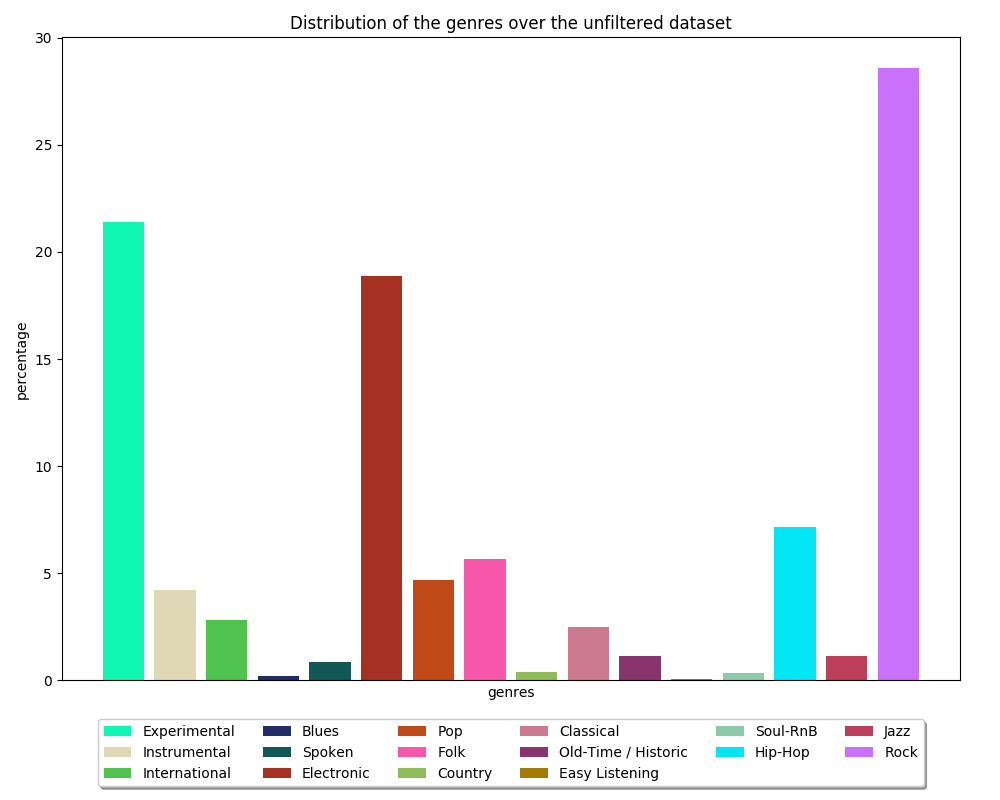
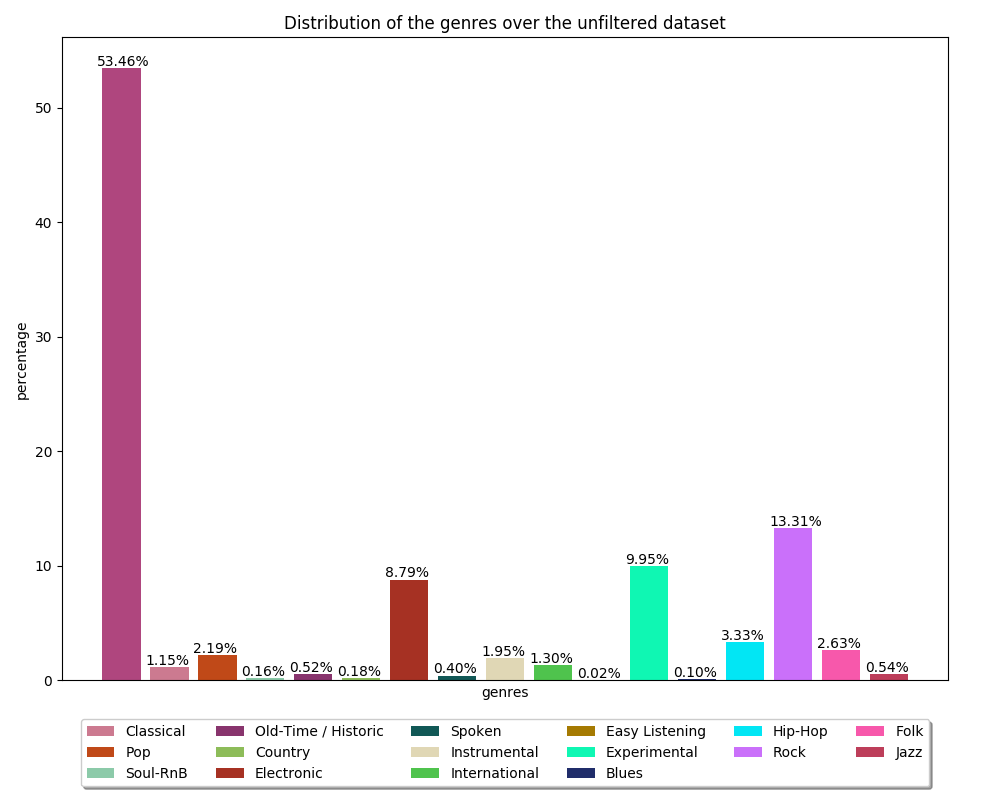
Work on report, counted hits per class

diff --git a/report/content/entropy.tex b/report/content/entropy.tex
@@ -1,41 +1,113 @@
-\chapter{Entropy Approach}
+\chapter{Entropy and Fractal Dimension Approach}
 \textit{by Florian Fallenbüchel}\\
 This chapter will explain our approach on the classification of the
 genre via the entropy and fractal dimension of the song. This approach
 is interesting, because it does not consider musical information such as
 harmony, melody, beat and tempo, heavily reducing the size of the data
-to be processed during training. We follow the work of Goulart
-\textit{et al.}~\cite{entropy} from 2012, who used the entropy approach
-together with combined support vector machines. They got 100\%
-classification accuracy on a set of 90 songs equally distributed over 3
-different genres, with 80-90\% of the data used for training. We try
-to extend this method to a larger amount of classes, combining it with
-neural networks for classification.\\
+to be processed during training. The entropy is a measure of the
+disorder of the signal, indicating the quantity of change of the signal
+energy between consecutive parts of the track. The fractal dimension is
+a measure of the complexity of the signal, as it indicates the ratio of
+the change of detail to the change in scale at which the detail is
+measured. This term is mostly used in fractal geometry, as fractals have
+infinite lengths between any two points, making them more complex than
+their topological dimension, but less complex than the next higher one.
+This interdimensionality is given by the fractal dimension.\\
+
+\section{Method}
+We follow the work of Goulart \textit{et al.}~\cite{entropy} from 2012,
+who used the entropy approach together with combined support vector
+machines. They achieved 100\% classification accuracy on a set of 90
+songs equally distributed over 3 different genres, with 80-90\% of the
+data used for training. We try to extend this method to a larger amount
+of classes, combining it with neural networks for classification.\\
 For the calculation of the entropy, we need the energy approach of
-signal theory, as presented in Elements of Information
-Theory~\cite{infotheo} by Cover and Thomas. The song is divided into
-frames of 1024 samples with 50\% overlap between consecutive frames.
-The entropy (E) then is defined as
+signal theory, as presented in Elements of Information Theory
+\cite{infotheo} by Cover and Thomas. The song is divided into frames of
+1024 samples with 50\% overlap between consecutive frames and the
+entropy $E$ then is defined as
 \begin{equation}
 	E = - \sum_{i=0}^{1023} p_{i} \log_{2}(p_{i}),
 \end{equation}
-with $p_{i}$ being the proportion of the
+with $p_{i}$ being the proportion of the sample energy to the
+energy of the whole frame
+\begin{equation}
+	p_i = \frac{y_i}{\sum_{j=0}^{1023} y_j}.
+\end{equation}
+\\
+\noindent From the now obtained set of entropies of the song we
+calculate five features, namely the average entropy, the standard
+deviation of the entropies, the maximum and minimum entropy and the
+absolute maximum difference of entropies between consecutive frames.
+Those are the first five entries of our input vector for the neural
+network.\\
+For the calculation of the fractal dimension they suggest a box counting
+algorithm. The basic principle of these algorithms is to calculate the
+number of boxes of different sizes necessary to cover the entire signal.
+After that, a linear least squares solution is computed on the logarithm
+of the number of boxes and the inverse logarithm of the respective box
+size ($\frac{1}{log(boxs)}$). The slope of the resulting curve then
+resembles the fractal dimension.\\
+For the implementation of the algorithm, we needed to improvise, because
+the box counting algorithm Goulart \textit{et al.} used in their work is
+described in the book ``Fractal Speech Processin''~\cite{fractal} by
+Al-Akaidi, which is not purchasable or accessible through online
+libraries at the moment. We therefore adopted the box counting algorithm
+presented by Boshoff~\cite{boxcount}, as it promises fast computation
+time due to the doubling of the box size during each step. The fractal
+dimension is the last element of our input, resulting in a six
+dimensional input vector for the neural network. We vectorized all
+algorithms, to be able to efficiently process the huge amount of
+available data in a short amount of time.
 
+\section{Model}
+As our input data is relatively simple, we can use a conservative
+implementation of a neural network for the classification, without the
+need for convolutions. Figure~\ref{entropymodel} shows the architecture
+of our naive network design. Our hidden layers are of size 1024 and we
+chose parameterized ReLUs with a parameter for every connection, as well
+as batch normalization and dropout for every layer. Batch normalization
+accellerates training, as it reduces the amount by what the hidden unit
+values shift around, normalizing the input from previous layers to a
+common scale. The dropout layers should stabilize the prediction
+accuracy by eliminating parts of the information during training,
+reinforcing the remaining neurons.
+
+\begin{figure}
+	\centering
+	\includegraphics[width=0.65\textwidth]{images/entropymodel.png}
+	\caption{Architecture of the neural network used for the classification
+	of the 6-dimensional entropy-fractal vector to one of the 16 top
+	genres from the dataset.}
+	\label{entropymodel}
+\end{figure}
+
+\section{Training}
+For the training, we used a maximum of 180 seconds per song, as processing
+the full length of every track would have taken several days on our
+available hardware.
 
 \begin{center}
-\begin{tabular}{ p{\textwidth /4}  p{\textwidth *3 /5 }}
-
-	Description & The way developers approach a task can provide detailed information about the structure of the project they are working on.
-	Using this knowledge, other team-members can familiarize themselves with new parts of the project faster.
-	This information can be displayed as trace links, which show the source code entities, that are relevant to a particular requirement specification.
-	While the users can benefit from these trace links, their creation should not interfere with the normal workflow. Why is this even still on my hard-drive, I handed it in years ago.\\
-	\hline
-	User Subtasks & User Subtask 1.1: perform interactions\\
-	& User Subtask 1.2: commit changes related to an issue\\
-	& User Subtask 1.3: browse linked code entities\\	
-\end{tabular}
-	\label{tab:somerandomtablethatshouldnotbehere}
-\captionof{table}{If you don't add a caption, the table wont show up in the list of tables. I invested a lot of clicks into making that, so you better think of something clever to put there.}
-\end{center}
-
-Notice how this tabular doesn't float all over the place? use regular tables if you prefer it that way.
+	\begin{tabular}{ p{0.25\textwidth} p{0.2\textwidth} p{0.2\textwidth} p{0.2\textwidth}}
+		Genre & Accuracy & Hits & from Total\\
+		\hline
+		Instrumental & $0.00\%$ & 0 & 430\\
+		Folk & $0.00\%$ & 0 & 558\\
+		Country & $0.00\%$ & 0 & 37\\
+		Pop & $0.00\%$ & 0 & 481\\
+		Hip-Hop & $8.54\%$ & 61 & 714\\
+		Electronic & $52.52\%$ & 970 & 1847\\
+		International & $0.00\%$ & 0 & 256\\
+		Rock & $78.29\%$ & 2226 & 2843\\
+		Spoken & $0.00\%$ & 0 & 76\\
+		Blues & $0.00\%$ & 0 & 26\\
+		Old Time / Historic & $5.31\%$ & 6 & 113\\
+		Easy Listening & $0.00\%$ & 0 & 7\\
+		Experimental & $45.87\%$ & 993 & 2165\\
+		Classical & $34.04\%$ & 80 & 235\\
+		Jazz & $0.00\%$ & 0 & 93\\
+		Soul-RnB & $0.00\%$ & 0 & 38\\
+	\end{tabular}
+		\label{tab:accperclass}
+	\captionof{table}{Accuracy per class after 100 epochs of training with the filtered data set.}
+	\end{center}

diff --git a/report/content/dataset.tex b/report/content/dataset.tex
@@ -9,6 +9,16 @@ will use these top genres as labels in our experiments. There are 16
 different top genres in the data, while some songs have tagged an empty
 string.
 
+\section{Distribution of the genres}
+
+Figure~\ref{unfiltered} shows the genre distribution over the
+full data set. Unfortunately, we realized too late, that the empty genre
+is considered a class, and therefore, that the data is heavily
+imbalanced. This influenced most of the experiments we did with the set,
+delivering 53$\%$ accuracy for some of our neural networks, which only
+predicted the empty genre. The individual chapters will provide more
+insight.
+
 \begin{figure}[!htb]
 	\centering
 	\includegraphics[width=1.0\textwidth]{images/genredist.png}
@@ -16,14 +26,6 @@ string.
 	About 53$\%$ of the data (left bar) has no top genre tagged.}
 	\label{unfiltered}
 \end{figure}
-
-\noindent Figure~\ref{unfiltered} shows the genre distribution over the
-full data set. Unfortunately, we realized too late, that the empty genre
-is considered a class, and therefore, that the data is heavily
-imbalanced. This influenced most of the experiments we did with the set,
-delivering 53$\%$ accuracy for some of our neural networks, which only
-predicted the empty genre. The individual chapters will provide more
-insight.\\
 
 \begin{figure}[]
 	\centering
@@ -37,11 +39,32 @@ Therefore, we had to filter the songs from the set which were untagged,
 as they hinder training not only by delivering high accuracy for the
 prediction of a single class, but also, because the songs are probably
 from one of the other 16 classes in reality and therefore have similar
-features to the remaining songs, but a different tag.
-Figure~\ref{filtered} pictures the distribution of the genres after the
-tracks with no top genre got filtered out. As you can see, the data is
-still imbalanced, with a majority of the songs being either Rock,
-Experimental or Electronic music. To improve results in the future, we
-should filter out genres with small sample sizes. Due to the deadline,
-we were only able to redo some of our tests we already carried out on
-the full dataset.
+features to the remaining songs, but a different tag. This leaves us
+with 49598 songs from the original set. Figure~\ref{filtered} pictures
+the distribution of the genres after the tracks with no top genre got
+filtered out. As you can see, the data is still imbalanced, with a
+majority of the songs being either Rock, Experimental or Electronic
+music. To improve results in the future, we should filter out genres
+with small sample sizes. Due to the deadline, we were only able to redo
+some of our tests we already carried out on the full dataset.\\
+We used 20\% of our data for testing, resulting in 39679 songs for
+training and 9919 for validation (85260 and 21314 in the unfiltered data
+set). As the dataset has an ordering of genres, due to tracks of the
+same album usually being the same genre, we shuffle the data before
+splitting to obtain a similar distribution over the two sets.
+Figure~\ref{trainval} shows the genre distributions of our filtered
+train and validation sets. As you can see, the genres are indeed equally
+distributed for the two sets, but the classes themself are still
+imbalanced. The distribution of the splits for the experiments carried
+out with the unfilterd data set also follow the distribution of the
+whole data in Figure~\ref{unfiltered}. This should be taking into
+account while evaluating our accuracy statistics.
+
+\begin{figure}
+	\centering
+	\includegraphics[width=1.0\textwidth]{images/train.png}
+	\includegraphics[width=1.0\textwidth]{images/val.png}
+	\caption{Genre distribution over the training and validation
+	sets. The two distributions are quite similar.}
+	\label{trainval}
+\end{figure}

diff --git a/data_distri.py b/data_distri.py
@@ -3,11 +3,14 @@ import matplotlib.pyplot as plt
 import numpy as np
 from tqdm import tqdm
 from hashlib import md5
-from entrset import EntropyDataset
+from dataset import SoundfileDataset
 
-FILTER = True
+FILTER = False
 
 path='./all_metadata.p'
+
+data = SoundfileDataset(path=path)
+train, valid = data.get_indices()
 d = pickle.load(open(path, 'rb'))
 classes = set()
 for i, (key, val) in enumerate(d.items()):
@@ -19,6 +22,26 @@ lbl2idx = {v:k for k,v in idx2lbl.items()}
 n_classes = len(classes)
 print(n_classes)
 absolute = np.zeros(n_classes)
+train_occ = np.zeros(n_classes)
+val_occ = np.zeros(n_classes)
+
+for i in train:
+    train_occ[data.data[i].label] += 1
+train_dis = (train_occ / train_occ.sum()) * 100
+print(train_occ.sum())
+
+print("Train")
+for i, num in enumerate(train_dis):
+    print("Genre : " + idx2lbl[i] + ": {:.2f}%".format(num))
+
+for i in valid:
+    val_occ[data.data[i].label] += 1
+val_dis = (val_occ / val_occ.sum()) * 100
+print(val_occ.sum())
+
+print("Val")
+for i, num in enumerate(val_dis):
+    print("Genre : " + idx2lbl[i] + ": {:.2f}%".format(num))
 
 for i, (k, v) in enumerate(d.items()):
     if FILTER:
@@ -31,6 +54,7 @@ print(len(occu))
 plt.figure(figsize=(10, 8))
 for i, num in enumerate(occu):
     plt.bar(i, num, color="#"+md5((idx2lbl[i] + "Zysten rocken fett!").encode('utf-8') ).hexdigest()[:6], label=idx2lbl[i])
+    plt.text(i-0.5, num+0.2, str("{:.2f}%".format(num)), color='black')
 plt.xticks([])
 plt.xlabel("genres")
 plt.ylabel("percentage")
@@ -38,6 +62,32 @@ plt.legend(loc='upper center', bbox_to_anchor=(0.5, -0.05), fancybox=True, shado
 plt.title("Distribution of the genres over the unfiltered dataset")
 plt.tight_layout()
 plt.savefig("./genredist.png")
+plt.clf()
+
+plt.figure(figsize=(10, 8))
+for i, num in enumerate(train_dis):
+    plt.bar(i, num, color="#"+md5((idx2lbl[i] + "Zysten rocken fett!").encode('utf-8') ).hexdigest()[:6], label=idx2lbl[i])
+    plt.text(i-0.5, num+0.2, str("{:.2f}%".format(num)), color='black')
+plt.xticks([])
+plt.xlabel("genres")
+plt.ylabel("percentage")
+plt.legend(loc='upper center', bbox_to_anchor=(0.5, -0.05), fancybox=True, shadow=True, ncol=6)
+plt.title("Genre distribution over the training set")
+plt.tight_layout()
+plt.savefig("./train.png")
+
+plt.clf()
+plt.figure(figsize=(10, 8))
+for i, num in enumerate(val_dis):
+    plt.bar(i, num, color="#"+md5((idx2lbl[i] + "Zysten rocken fett!").encode('utf-8') ).hexdigest()[:6], label=idx2lbl[i])
+    plt.text(i-0.5, num+0.2, str("{:.2f}%".format(num)), color='black')
+plt.xticks([])
+plt.xlabel("genres")
+plt.ylabel("percentage")
+plt.legend(loc='upper center', bbox_to_anchor=(0.5, -0.05), fancybox=True, shadow=True, ncol=6)
+plt.title("Genre distribution over the validation set")
+plt.tight_layout()
+plt.savefig("./val.png")
 
 
 for i, num in enumerate(occu):

diff --git a/entropyacc.py b/entropyacc.py
@@ -1,4 +1,4 @@
-#!/usr/bin/env python3
+#!/usr/bin/env python3.7
 import numpy as np
 import torch
 import pickle
@@ -24,10 +24,6 @@ SHUFFLE_ON  = True
 DATA_PATH   = "./all_metadata.p"
 MODEL_PATH  = "../models/"
 
-""" dataset = SoundfileDataset(path=DATA_PATH, seg_size=seg_s, hotvec=False, cut_data=True, verbose=False, out_type='entr')
-trainsamp, valsamp = dataset.get_split(sampler=False)
-trainloader = torch.utils.data.DataLoader(trainsamp, batch_size=batch_s, shuffle=SHUFFLE_ON, num_workers=6)
-valloader   = torch.utils.data.DataLoader(valsamp, batch_size=batch_s, shuffle=SHUFFLE_ON, num_workers=6) """
 dataset = EntropyDataset()
 trainsamp, valsamp = dataset.getsplit()
 trainloader = torch.utils.data.DataLoader(trainsamp, batch_size=batch_s, shuffle=SHUFFLE_ON, num_workers=4)
@@ -61,10 +57,7 @@ optimizer = optim.Adam(model.parameters(), lr=learn_r)
 scheduler = optim.lr_scheduler.ReduceLROnPlateau(optimizer, factor=s_factor, patience=5, verbose=True)
 criterion = nn.CrossEntropyLoss()
 
-if CUDA_ON:
-    model.cuda()
-
-print(sum([sum([y.numel() for y in x.parameters()]) for x in model.modules() if type(x) not in {nn.Sequential}]))
+model.cuda()
 
 def train(epoch):
     total_loss = 0
@@ -124,24 +117,10 @@ def validate():
     
     return val_loss, accuracy
 
-loss_list = []
-acc_list  = []
-val_loss  = []
-val_acc   = []
-n_epo = 0
 for epoch in range(0, num_epochs):
     loss, acc = train(epoch)
-    loss_list.append(loss)
-    acc_list.append(acc)
     val_l, val_a = validate()
     scheduler.step(val_l)
-    val_loss.append(val_l)
-    val_acc.append(val_a)
-    n_epo += 1
-
-state = {'state_dict':model.state_dict(), 'optim':optimizer.state_dict(), 'epoch':n_epo, 'train_loss':loss_list, 'accuracy':acc_list, 'val_loss':val_loss, 'val_acc':val_acc}
-filename = "../models/entropy_{:02d}.nn".format(n_epo)
-torch.save(state, filename)
 
 def acc_per_class():
     model.eval()
@@ -158,6 +137,12 @@ def acc_per_class():
             occ[lbl] += 1
             hit[lbl] += comp[i]
     
-    hit = (hit / occ) * 100
+    acc = (hit / occ) * 100
 
-    return hit, occ
+    return acc, hit, occ
+
+acc, hit, occ = acc_per_class()
+
+for i, elem in enumerate(acc):
+    print("{}: Accuracy {}%, {} from {}".format(i, elem, hit[i], occ[i]))
+print((hit.sum()/occ.sum())*100)

diff --git a/dataset.py b/dataset.py
@@ -32,6 +32,7 @@ class SoundfileDataset(Dataset):
             d = {k:v for k,v in d.items() if os.path.isfile(os.path.join(ipath, v['path'][:-3] + "npy")) and int(v["track"]["duration"]) > seg_size}
         else:
             d = {k:v for k,v in d.items() if os.path.isfile(os.path.join(ipath, v['path'])) and int(v["track"]["duration"]) > seg_size}
+        
         if verbose:
             print(f"removed {tmp_len - len(d)}/{tmp_len} non-existing/too short items" )
         
@@ -233,6 +234,21 @@ class SoundfileDataset(Dataset):
             train_set = Subset(self, train_indices)
             valid_set = Subset(self, val_indices)
             return train_set, valid_set
+
+    def get_indices(self, shuffle=True):
+        validation_split = .2
+        random_seed= 4 # chosen by diceroll, 100% random  
+        
+        # Creating data indices for training and validation splits:
+        dataset_size = self.__len__()
+        indices = list(range(dataset_size))
+        split = int(np.floor(validation_split * dataset_size))
+        if shuffle:
+            np.random.seed(random_seed)
+            np.random.shuffle(indices)
+        train_indices, val_indices = indices[split:], indices[:split]
+
+        return train_indices, val_indices
 
     
     
